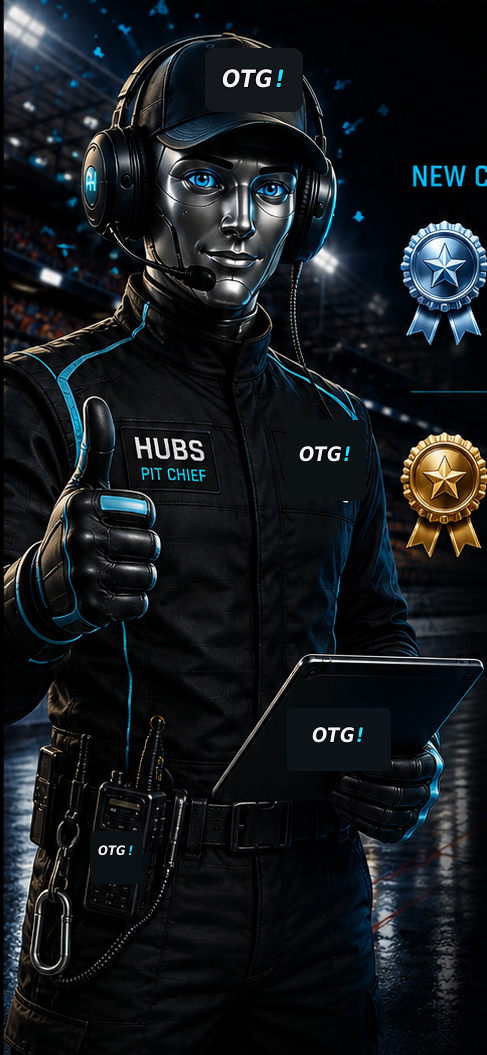
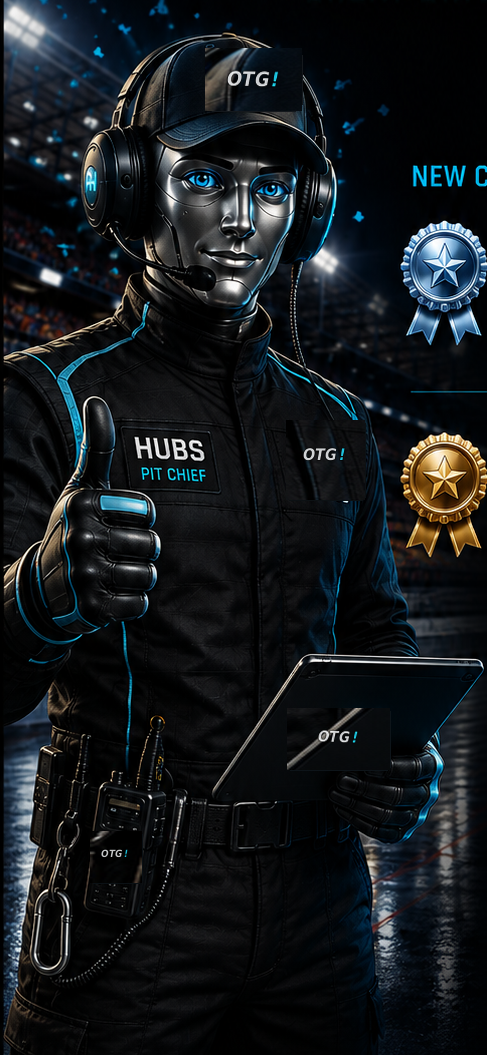
OTG v6.0.60 delete league and Hubs retouch

diff --git a/js/studio-grand-tour-v6043.js b/js/studio-grand-tour-v6043.js
@@ -1,1 +1,1 @@
-(()=>{const safe=s=>esc(String(s??''));window.rhConfirm=function({title,copy,detail='',safeguard='',confirmLabel='CONFIRM',cancelLabel='CANCEL',danger=false,severity='',onConfirm=''}){document.getElementById('rhConfirmOverlay')?.remove();const sev=severity||(danger?'destructive':'cyan');const isResetScreen=/^(RESET RACING DATA\?|FULL RESET OTG!\?)$/i.test(String(title||'').trim());if(sev==='destructive'&&isResetScreen){const racing=/RESET RACING DATA/i.test(title);document.body.insertAdjacentHTML('beforeend',`<div id="rhConfirmOverlay" class="rhReset6040 ${racing?'racing6040':'full6040'}"><img class="rhResetArt6040" src="assets/final/hubs-reset-approved-v6040.png?v=6059" alt="">${racing?`<div class="rhTabletMask6040"><div class="rhWarn6040">⚠ WARNING</div><h2>${safe(title)}</h2><p>${safe(copy)}</p>${safeguard?`<div class="rhKeep6040">◇ ${safe(safeguard)}</div>`:''}</div><div class="rhResetButtonVisual6040">${safe(confirmLabel)}</div>`:''}<button class="rhHit6040 rhBackHit6040" aria-label="Back" onclick="$('rhConfirmOverlay').remove()"></button><button class="rhHit6040 rhCancelHit6040" aria-label="${safe(cancelLabel)}" onclick="$('rhConfirmOverlay').remove()"></button><button class="rhHit6040 rhConfirmHit6040" aria-label="${safe(confirmLabel)}" onclick="$('rhConfirmOverlay').remove();${onConfirm}"></button></div>`);return;}document.body.insertAdjacentHTML('beforeend',`<div id="rhConfirmOverlay" class="rhOverlay"><div class="rhModal rhConfirmModal rhConfirmFinal ${sev}"><button class="rhModalX" onclick="$('rhConfirmOverlay').remove()">×</button><div class="rhConfirmIcon">${sev==='destructive'?'!':sev==='purple'?'★':sev==='caution'?'!':'↻'}</div><h2>${safe(title)}</h2><p>${safe(copy)}</p>${detail?`<div class="rhConfirmDetail">${safe(detail)}</div>`:''}${safeguard?`<div class="rhSafeguard">◇ ${safe(safeguard)}</div>`:''}<div class="rhModalActions"><button class="btn secondary" onclick="$('rhConfirmOverlay').remove()">${safe(cancelLabel)}</button><button class="btn ${danger?'dangerBtn':''}" onclick="$('rhConfirmOverlay').remove();${onConfirm}">${safe(confirmLabel)}</button></div></div></div>`);};})();
+(()=>{const safe=s=>esc(String(s??''));window.rhConfirm=function({title,copy,detail='',safeguard='',confirmLabel='CONFIRM',cancelLabel='CANCEL',danger=false,severity='',onConfirm=''}){document.getElementById('rhConfirmOverlay')?.remove();const sev=severity||(danger?'destructive':'cyan');const isResetScreen=/^(RESET RACING DATA\?|FULL RESET OTG!\?)$/i.test(String(title||'').trim());if(sev==='destructive'&&isResetScreen){const racing=/RESET RACING DATA/i.test(title);document.body.insertAdjacentHTML('beforeend',`<div id="rhConfirmOverlay" class="rhReset6040 ${racing?'racing6040':'full6040'}"><img class="rhResetArt6040" src="assets/final/hubs-reset-approved-v6040.png?v=6060" alt="">${racing?`<div class="rhTabletMask6040"><div class="rhWarn6040">⚠ WARNING</div><h2>${safe(title)}</h2><p>${safe(copy)}</p>${safeguard?`<div class="rhKeep6040">◇ ${safe(safeguard)}</div>`:''}</div><div class="rhResetButtonVisual6040">${safe(confirmLabel)}</div>`:''}<button class="rhHit6040 rhBackHit6040" aria-label="Back" onclick="$('rhConfirmOverlay').remove()"></button><button class="rhHit6040 rhCancelHit6040" aria-label="${safe(cancelLabel)}" onclick="$('rhConfirmOverlay').remove()"></button><button class="rhHit6040 rhConfirmHit6040" aria-label="${safe(confirmLabel)}" onclick="$('rhConfirmOverlay').remove();${onConfirm}"></button></div>`);return;}document.body.insertAdjacentHTML('beforeend',`<div id="rhConfirmOverlay" class="rhOverlay"><div class="rhModal rhConfirmModal rhConfirmFinal ${sev}"><button class="rhModalX" onclick="$('rhConfirmOverlay').remove()">×</button><div class="rhConfirmIcon">${sev==='destructive'?'':sev==='purple'?'★':sev==='caution'?'!':'↻'}</div><h2>${safe(title)}</h2><p>${safe(copy)}</p>${detail?`<div class="rhConfirmDetail">${safe(detail)}</div>`:''}${safeguard?`<div class="rhSafeguard">◇ ${safe(safeguard)}</div>`:''}<div class="rhModalActions"><button class="btn secondary" onclick="$('rhConfirmOverlay').remove()">${safe(cancelLabel)}</button><button class="btn ${danger?'dangerBtn':''}" onclick="$('rhConfirmOverlay').remove();${onConfirm}">${safe(confirmLabel)}</button></div></div></div>`);};})();

diff --git a/service-worker-v6060.js b/service-worker-v6060.js
@@ -1,0 +1,27 @@
+const CACHE_NAME='racehub-v6.0.60-delete-league-hubs-retouch';
+const ASSETS=[
+  './assets/final/hubs.png?v=6060',
+  './assets/final/hubs-reset-approved-v6040.png?v=6060',
+  './assets/final/hubs-pit-chief-v5829.png?v=6060',
+  './assets/final/hall-of-fame-background-otg-v6059.png',
+  './assets/final/festival-approved-scene-v6058-neutral.png',
+  './assets/final/dashboard-otg-neutral-v6056.png',
+  './assets/brand/otg-approved-painted-mark-v6052.png',
+  './style-v6059.css?v=6059',
+  './','./index.html','./style-v595.css?v=6020','./manifest.webmanifest?v=6000','./favicon.png',
+  './js/seed-data.js?v=5799','./js/core.js?v=6020','./js/race-director.js?v=5799','./js/views.js?v=5799',
+  './js/celebrations.js?v=5799','./js/garage.js?v=5799','./js/control-centre.js?v=5799',
+  './js/studio-final-v5808.js?v=6060','./js/studio-locked-ui-v5780.js?v=5799','./js/studio-grand-tour-v6043.js?v=6044','./js/studio-polish-v5782.js?v=5799',
+  './js/studio-v6-garage-foundation-v600.js?v=6020','./js/studio-release-v595.js?v=6020','./js/studio-enter-result-v5803.js?v=5803','./js/studio-result-summary-v5837.js?v=5837',
+  './js/studio-race-flow-v5809.js?v=5829','./js/bootstrap-v600.js?v=6060','./js/studio-race-end-v5837.js?v=5837',
+  './js/studio-final-standings-v5828.js?v=6035','./js/studio-records-v5830.js?v=6035','./js/studio-car-complete-v5832.js?v=5832',
+  './js/studio-champ-overview-v5835.js?v=5835','./js/studio-beta-feedback-v595.js?v=5918','./js/studio-v6-advanced-timing-v6015.js?v=6020','./js/studio-v6-race-notes-v6017.js?v=6020','./assets/final/championship-in-progress-aerial-v5834.png?v=5834',
+  './assets/final/final-standings-face-on-ui-ready-v5828.png?v=5828','./assets/brand/otg-mark-painted-wall.svg',
+  './assets/final/hubs-pit-chief-v5829.png?v=5829','./assets/final/hubs-reset-approved-v6040.png','./assets/final/enter-result-side-finish-v5803.png','./assets/final/result-summary-podium-v5804.png',
+  './assets/final/trophy-festival.png','./assets/final/trophy-manufacturer.png','./assets/final/trophy-era.png','./assets/final/trophy-favourite.png',
+  './style-v6020.css?v=6020','./style-v6031.css?v=6031','./style-v6021.css?v=6021','./style-v6022.css?v=6032','./style-v6023.css?v=6023','./style-v6024.css?v=6024','./style-v6026.css?v=6026','./style-v6033.css?v=6033','./style-v6035.css?v=6035','./style-v6040.css?v=6040','./js/studio-v6-league-foundation-v6018.js?v=6020','./js/studio-v6-league-stage9b-v6020.js?v=6020','./js/studio-v6-league-stage9c-v6022.js?v=6022','./js/studio-v6-league-stage9d-v6023.js?v=6023','./js/studio-v6-league-stage9d-polish-v6024.js?v=6024','./assets/final/league-organiser-control-room-v6018.png','./icons/icon-v5765-192.png','./icons/icon-v5765-512.png'
+];
+self.addEventListener('install',e=>{e.waitUntil(caches.open(CACHE_NAME).then(c=>c.addAll(ASSETS)));self.skipWaiting();});
+self.addEventListener('activate',e=>{e.waitUntil(caches.keys().then(keys=>Promise.all(keys.filter(k=>k.startsWith('racehub-')&&k!==CACHE_NAME).map(k=>caches.delete(k)))));self.clients.claim();});
+self.addEventListener('fetch',e=>{if(e.request.mode==='navigate'){e.respondWith(fetch(e.request,{cache:'no-store'}).catch(()=>caches.match('./index.html')));return;}e.respondWith(fetch(e.request,{cache:'no-store'}).then(r=>{const copy=r.clone();caches.open(CACHE_NAME).then(c=>c.put(e.request,copy)).catch(()=>{});return r;}).catch(()=>caches.match(e.request)));});
+self.addEventListener('message',e=>{if(e.data&&e.data.type==='SKIP_WAITING')self.skipWaiting();});

diff --git a/index.html b/index.html
@@ -10,7 +10,7 @@
 <link rel="manifest" href="manifest.webmanifest?v=6000">
 <link rel="apple-touch-icon" href="icons/icon-v5765-192.png?v=5766">
 <title>Out The Garage!</title>
-<meta name="racehub-version" content="6.0.59">
+<meta name="racehub-version" content="6.0.60">
 <link rel="stylesheet" href="style-v595.css?v=6018">
 <link rel="stylesheet" href="style-v6020.css?v=6020">
 <link rel="stylesheet" href="style-v6021.css?v=6021">
@@ -53,7 +53,7 @@
 <script src="js/celebrations.js?v=5799"></script>
 <script src="js/garage.js?v=5799"></script>
 <script src="js/control-centre.js?v=5799"></script>
-<script src="js/studio-final-v5808.js?v=6059"></script>
+<script src="js/studio-final-v5808.js?v=6060"></script>
 <script src="js/studio-locked-ui-v5780.js?v=6059?v=5799"></script>
 <script src="js/studio-polish-v5782.js?v=5799"></script>
 <script src="js/studio-v6-garage-foundation-v600.js?v=6017"></script>
@@ -61,9 +61,9 @@
 <script src="js/studio-enter-result-v5803.js?v=5803"></script>
 <script src="js/studio-result-summary-v5837.js?v=5837"></script>
 <script src="js/studio-race-flow-v5809.js?v=5829"></script>
-<script src="js/bootstrap-v600.js?v=6059"></script>
-<script src="js/studio-grand-tour-v6043.js?v=6059?v=6044"></script>
-<script src="js/studio-race-end-v5837.js?v=6059?v=5837"></script>
+<script src="js/bootstrap-v600.js?v=6060"></script>
+<script src="js/studio-grand-tour-v6043.js?v=6060?v=6044"></script>
+<script src="js/studio-race-end-v5837.js?v=6060?v=5837"></script>
 <script src="js/studio-final-standings-v5828.js?v=6034"></script>
 <script src="js/studio-records-v5830.js?v=6034"></script>
 <script src="js/studio-car-complete-v5832.js?v=5832"></script>

diff --git a/js/studio-race-end-v5837.js b/js/studio-race-end-v5837.js
@@ -91,7 +91,7 @@
       <button class="rhHubs29Back" id="rhHubs29Back" aria-label="Back">‹</button>
       <header class="rhHubs29Header"><h1>HOLD ON...</h1><p>HUBS HAS SOME NEWS</p></header>
       <main class="rhHubs29Main">
-        <section class="rhHubs29Character"><img src="assets/final/hubs-pit-chief-v5829.png?v=6059" alt="Hubs, OTG! Pit Chief"></section>
+        <section class="rhHubs29Character"><img src="assets/final/hubs-pit-chief-v5829.png?v=6060" alt="Hubs, OTG! Pit Chief"></section>
         <section class="rhHubs29Details">
           ${recordCards(res,kind)}
           <div class="rhHubs29Times"><small>YOUR NEW BEST TIME</small><strong>${fmt(res.time)}</strong>${previous!=null?`<small>PREVIOUS BEST</small><b>${fmt(previous)}</b><small>IMPROVEMENT</small><em>−${fmt(improvement)}</em>`:''}</div>

diff --git a/js/bootstrap-v600.js b/js/bootstrap-v600.js
@@ -2,4 +2,4 @@
 state=rhLoad();
 rhSync();
 if(state&&!state.onboarded){window.rhStartOnboardingIfNeeded?.();}else{show('home');}
-if('serviceWorker' in navigator){window.addEventListener('load',()=>navigator.serviceWorker.register('./service-worker-v6059.js',{updateViaCache:'none'}).catch(()=>{}));}
+if('serviceWorker' in navigator){window.addEventListener('load',()=>navigator.serviceWorker.register('./service-worker-v6060.js',{updateViaCache:'none'}).catch(()=>{}));}
